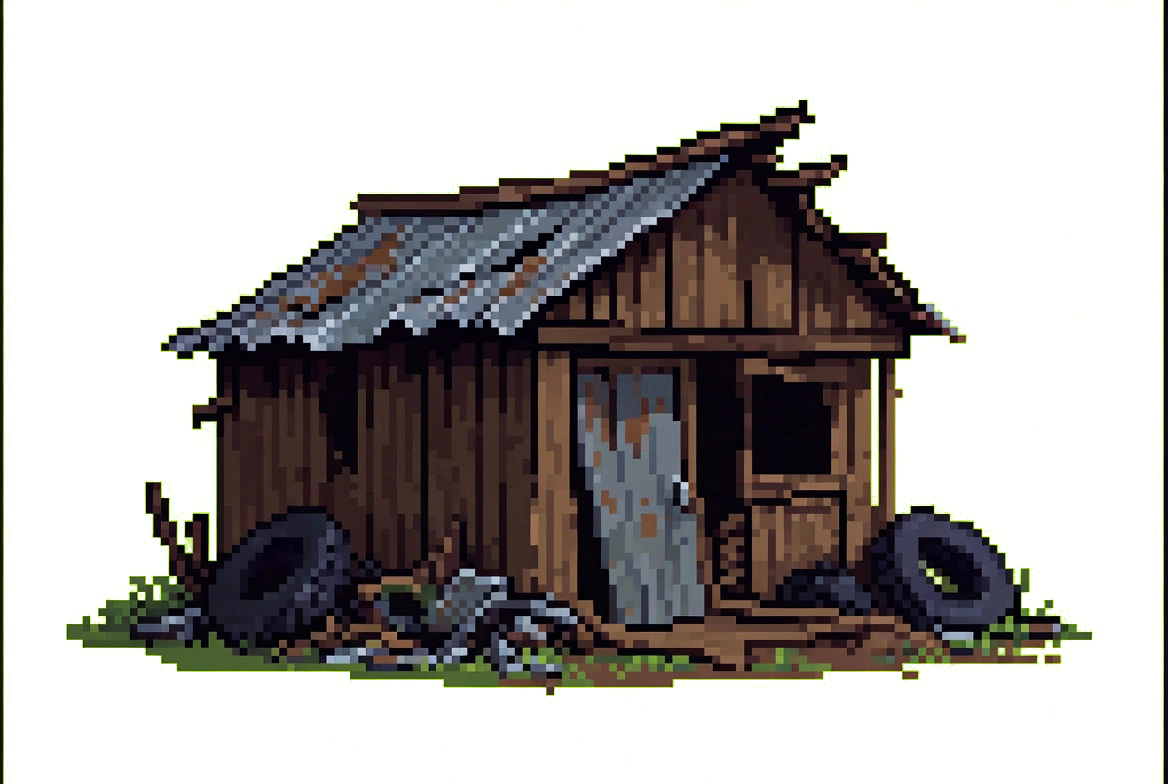
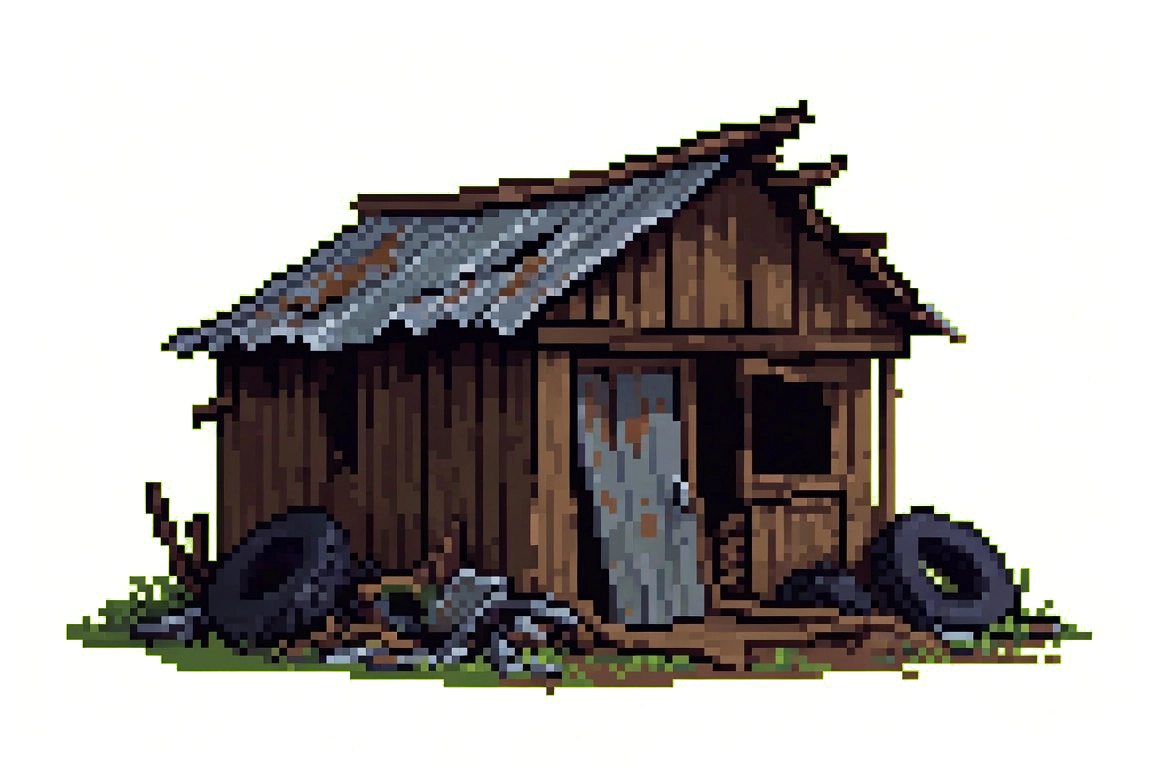
Improve VFD Defender mobile aiming controls

Changed region(s): [[0.9863, 0.0, 1.0, 1.0], [0.0, 0.0, 0.0308, 1.0]]

diff --git a/games/vfddefender/index.html b/games/vfddefender/index.html
@@ -734,18 +734,22 @@ button:hover { filter: brightness(1.2); }
 }
 #mobileSciFiActions {
   position: fixed;
-  right: 14px;
+  left: 0;
+  right: 0;
   bottom: 14px;
   display: none;
-  flex-direction: column;
+  flex-direction: row;
   align-items: center;
+  justify-content: space-between;
   gap: 10px;
   z-index: 1000;
-  pointer-events: auto;
+  pointer-events: none;
   touch-action: none;
 }
 #mobileAimStick {
-  position: relative;
+  position: fixed;
+  left: 138px;
+  bottom: 14px;
   width: 112px;
   height: 112px;
   pointer-events: auto;
@@ -771,8 +775,12 @@ button:hover { filter: brightness(1.2); }
   box-shadow: 0 4px 14px rgba(0,0,0,0.45);
 }
 #mobileSciFiActions .fire-row {
+  position: fixed;
+  right: 14px;
+  bottom: 14px;
   display: flex;
   gap: 10px;
+  pointer-events: auto;
 }
 #mobileSciFiActions button {
   width: 74px;
@@ -887,7 +895,19 @@ button:hover { filter: brightness(1.2); }
     width: clamp(82px, 22vw, 104px);
     height: clamp(82px, 22vw, 104px);
   }
+  #mobileAimStick {
+    left: calc(max(8px, env(safe-area-inset-left)) + clamp(82px, 22vw, 104px) + 12px);
+    bottom: max(8px, env(safe-area-inset-bottom));
+    width: clamp(82px, 22vw, 104px);
+    height: clamp(82px, 22vw, 104px);
+  }
   #thumbStick .knob {
+    width: clamp(34px, 9vw, 42px);
+    height: clamp(34px, 9vw, 42px);
+    margin-left: calc(clamp(34px, 9vw, 42px) / -2);
+    margin-top: calc(clamp(34px, 9vw, 42px) / -2);
+  }
+  #mobileAimStick .knob {
     width: clamp(34px, 9vw, 42px);
     height: clamp(34px, 9vw, 42px);
     margin-left: calc(clamp(34px, 9vw, 42px) / -2);
@@ -905,6 +925,16 @@ button:hover { filter: brightness(1.2); }
     height: clamp(48px, 14vw, 58px);
     font-size: clamp(20px, 6vw, 24px);
     border-radius: 10px;
+  }
+  #mobileSciFiActions .fire-row {
+    right: max(8px, env(safe-area-inset-right));
+    bottom: max(8px, env(safe-area-inset-bottom));
+    gap: 7px;
+  }
+  #mobileSciFiActions button {
+    width: clamp(58px, 16vw, 70px);
+    height: clamp(48px, 14vw, 58px);
+    font-size: clamp(12px, 3.8vw, 15px);
   }
   #firefighterMountBtn {
     min-width: 116px;
@@ -25321,6 +25351,50 @@ function getClampedHoseEnd() {
   return { x: attachX + dx * ratio, y: attachY + dy * ratio, length: hoseLimit };
 }
 
+function drawMobileAimGuideLine() {
+  const levelData = baseLevels[currentLevel - 1] || {};
+  if (gameState !== 'playing' || !isActiveLaserCombatMode(levelData)) return;
+  const sciFiActions = document.getElementById('mobileSciFiActions');
+  if (!sciFiActions || sciFiActions.style.display === 'none') return;
+  const visible = mobileAimPointerId !== null || isLaserFiring || isRocketFiring || performance.now() < mobileAimGuideUntil;
+  if (!visible) return;
+  const origin = getHoseSprayOriginPoint() || getTruckNozzlePoint();
+  const dx = mouseX - origin.x;
+  const dy = mouseY - origin.y;
+  const len = Math.hypot(dx, dy);
+  if (len < 8) return;
+  const dirX = dx / len;
+  const dirY = dy / len;
+  const endX = clamp(origin.x + dirX * Math.min(len, 420), 0, canvas.width);
+  const endY = clamp(origin.y + dirY * Math.min(len, 420), 0, canvas.height);
+  const pulse = 0.55 + (Math.sin(performance.now() / 90) * 0.5 + 0.5) * 0.35;
+
+  ctx.save();
+  ctx.globalCompositeOperation = 'lighter';
+  ctx.setLineDash([13, 10]);
+  ctx.lineDashOffset = -performance.now() / 45;
+  ctx.lineCap = 'round';
+  ctx.strokeStyle = `rgba(116, 226, 255, ${0.30 + pulse * 0.28})`;
+  ctx.lineWidth = 7;
+  ctx.beginPath();
+  ctx.moveTo(origin.x, origin.y);
+  ctx.lineTo(endX, endY);
+  ctx.stroke();
+  ctx.setLineDash([]);
+  ctx.strokeStyle = `rgba(235, 253, 255, ${0.56 + pulse * 0.24})`;
+  ctx.lineWidth = 2;
+  ctx.beginPath();
+  ctx.moveTo(origin.x, origin.y);
+  ctx.lineTo(endX, endY);
+  ctx.stroke();
+  ctx.strokeStyle = `rgba(120, 235, 255, ${0.62 + pulse * 0.24})`;
+  ctx.lineWidth = 2;
+  ctx.beginPath();
+  ctx.arc(endX, endY, 12 + pulse * 3, 0, Math.PI * 2);
+  ctx.stroke();
+  ctx.restore();
+}
+
 function createWaterParticles() {
   if (particles.length >= PARTICLE_BUDGET - 24) return;
   const levelData = baseLevels[currentLevel - 1] || {};
@@ -29201,6 +29275,11 @@ function dockHudControlsToCanvasEdge() {
   const stick = document.getElementById('thumbStick');
   if (stick) stick.style.bottom = `${baseBottom}px`;
 
+  const mobileAimStick = document.getElementById('mobileAimStick');
+  if (mobileAimStick) mobileAimStick.style.bottom = `${baseBottom}px`;
+  const mobileFireRow = document.querySelector('#mobileSciFiActions .fire-row');
+  if (mobileFireRow) mobileFireRow.style.bottom = `${baseBottom}px`;
+
   positionFirefighterMountButtonByTruckSide();
 }
 
@@ -29408,6 +29487,7 @@ let thumbPointerId = null;
 let mobileAimPointerId = null;
 let mobileAimX = 1;
 let mobileAimY = 0;
+let mobileAimGuideUntil = 0;
 const thumbStick = document.getElementById('thumbStick');
 thumbStick.addEventListener('pointerdown', (e) => {
   thumbPointerId = e.pointerId;
@@ -29479,6 +29559,7 @@ function applyMobileAim(dx, dy) {
   const aimLength = Math.min(getTruckHoseLengthLimit(), 300);
   mouseX = clamp(origin.x + x * aimLength, 0, 1200);
   mouseY = clamp(origin.y + y * aimLength, 0, 600);
+  mobileAimGuideUntil = performance.now() + 900;
   updateMobileAimKnob(x, y);
 }
 
@@ -30096,6 +30177,7 @@ if (false && currentLevel === 11) drawPlacementGrid();
     if (p.life <= 0) particles.splice(i, 1);
   }
   updateAndDrawPointPopups(dt);
+  drawMobileAimGuideLine();
 
   // Keep the support tanker on top of fire particles (lane 11) while it's present.
   drawTankerSupport();
